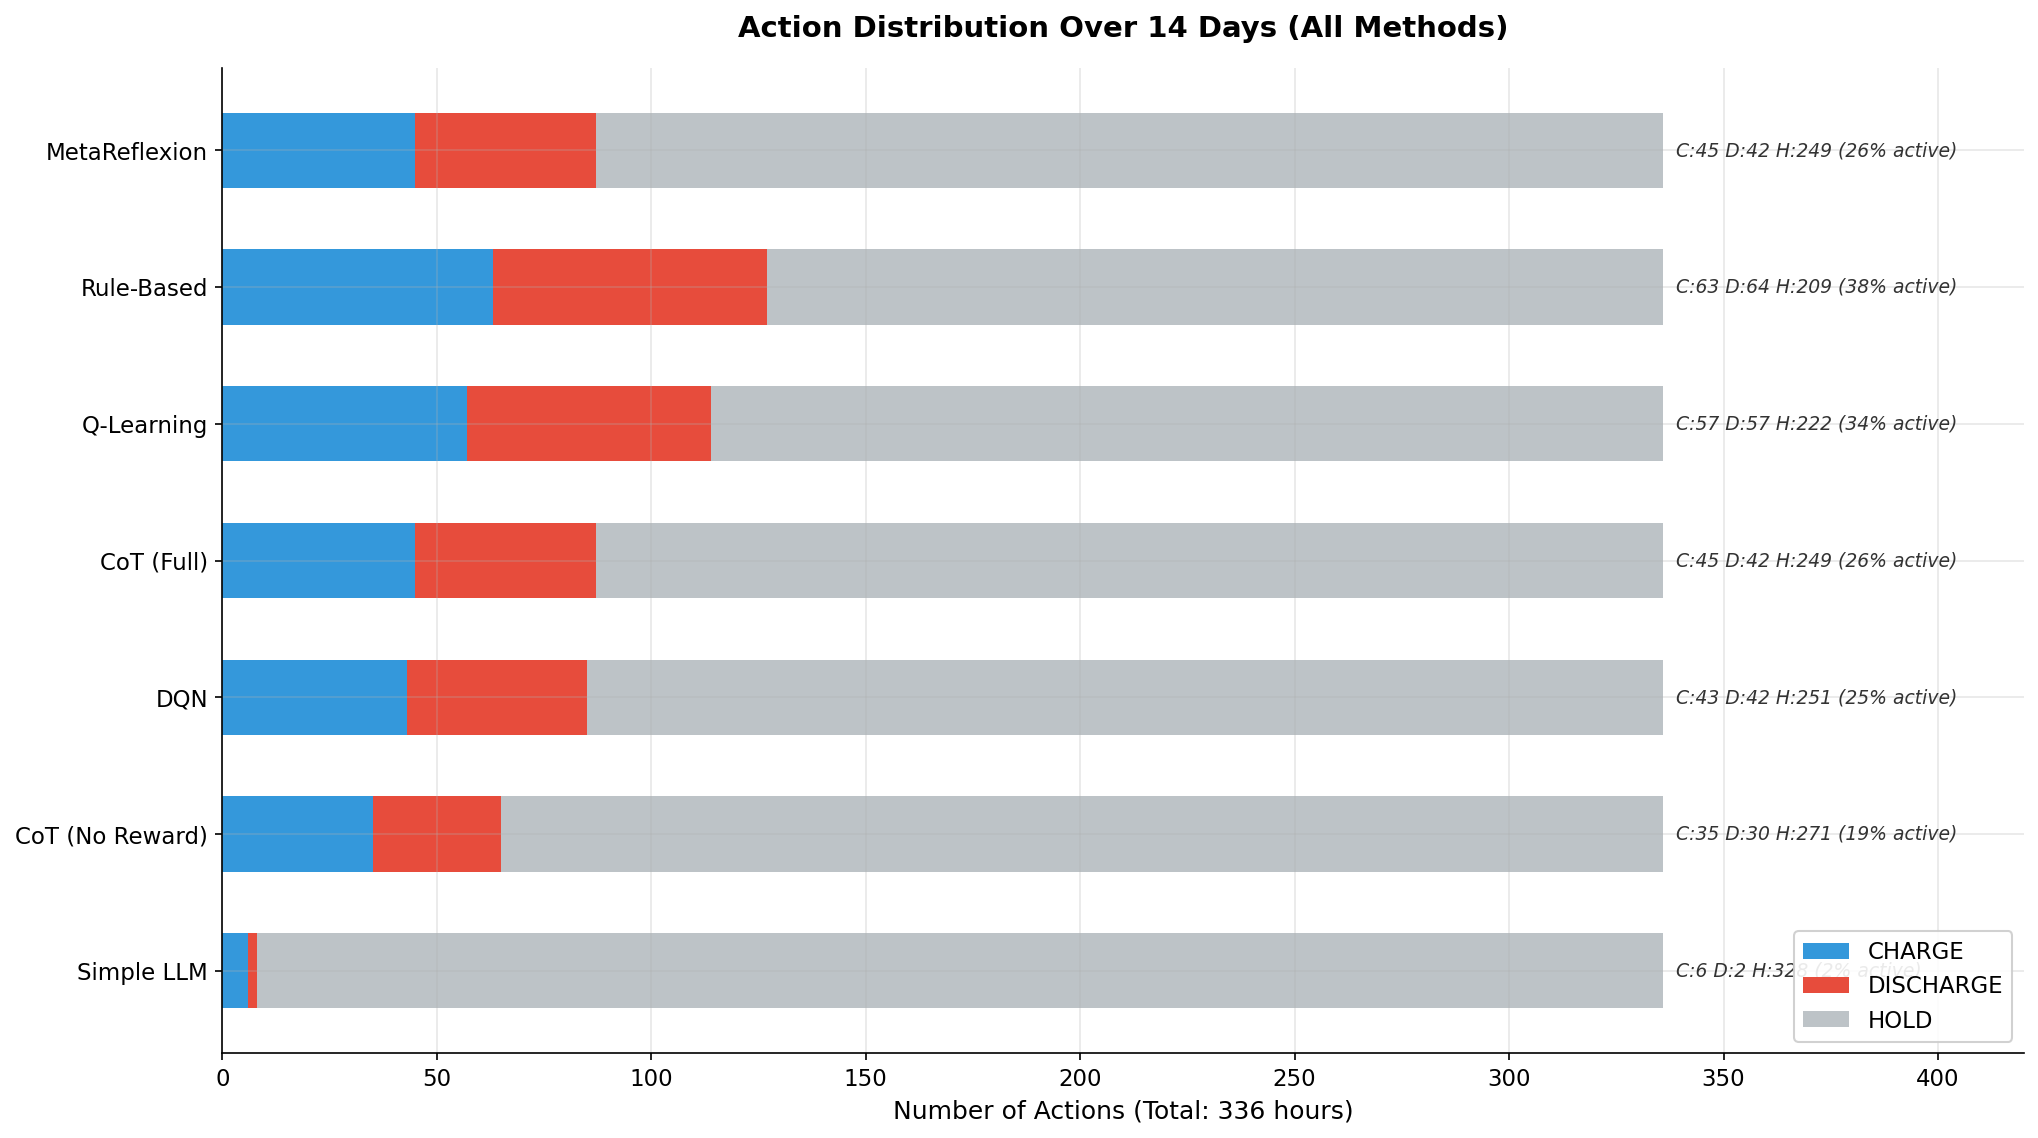
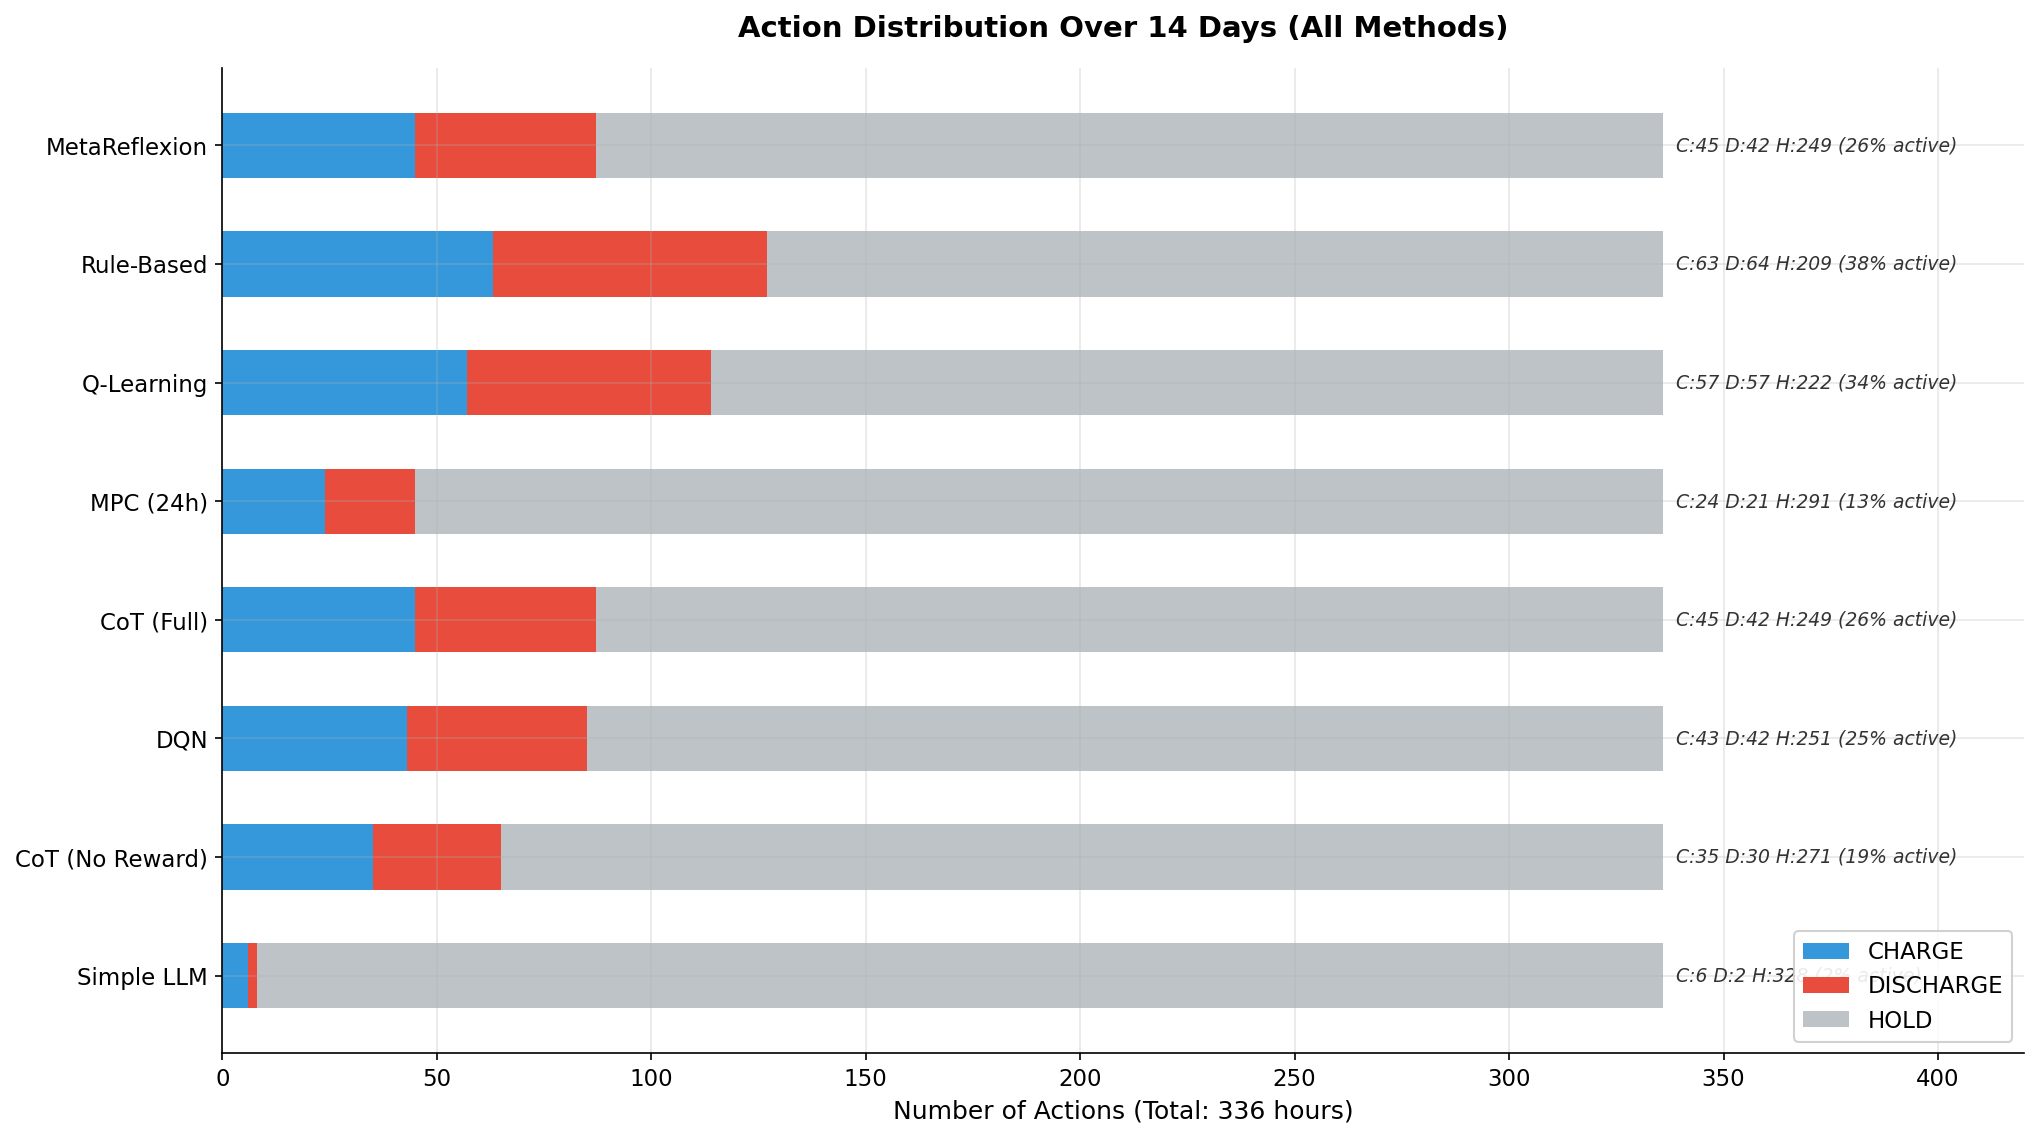
feat: 添加MPC结果到profit_comparison.png和README.md
- 在generate_figures.py中添加MPC (24h)方法支持
- 更新profit_comparison.png包含MPC理论上界
- 在README.md中添加MPC结果和相对性能分析
- MPC作为理论基准，MetaReflexion达到227.8%相对性能

diff --git a/scripts/generate_figures.py b/scripts/generate_figures.py
@@ -40,6 +40,7 @@ COLORS = {
     'CoT (Full)': '#e74c3c',          # 红色
     'CoT (No Reward)': '#1abc9c',     # 青色
     'Simple LLM': '#95a5a6',          # 灰色 - 最差
+    'MPC (24h)': '#2c3e50',           # 深灰色 - 理论上界
 }
 
 ACTION_COLORS = {
@@ -54,7 +55,7 @@ OUTPUT_DIR = PROJECT_ROOT / "outputs" / "14days_results"
 # 所有需要统计的方法 (不含 No CoT)
 ALL_METHODS = [
     "MetaReflexion", "Rule-Based", "Q-Learning", "DQN", 
-    "CoT (Full)", "CoT (No Reward)", "Simple LLM"
+    "CoT (Full)", "CoT (No Reward)", "Simple LLM", "MPC (24h)"
 ]
 
 
@@ -63,7 +64,7 @@ ALL_METHODS = [
 # ============================================================
 def load_all_data() -> Dict:
     """加载所有实验数据"""
-    outputs_dir = PROJECT_ROOT / "outputs"
+    outputs_dir = PROJECT_ROOT / "outputs" / "14days_results"
     data = {}
     
     # Rule-based
@@ -132,6 +133,26 @@ def load_all_data() -> Dict:
             "best_code": aga["best_code"]
         }
     
+    # MPC (24h) - 从CSV加载
+    import csv
+    with open(outputs_dir / "full_experiment_results_14days.csv") as f:
+        reader = csv.DictReader(f)
+        for row in reader:
+            if row["Method"] == "MPC (24h)":
+                profit = float(row["Profit"])
+                charge = int(row["Charge"])
+                discharge = int(row["Discharge"])
+                hold = int(row["Hold"])
+                # 估算daily利润 (均匀分布)
+                daily_profit = profit / 14
+                data["MPC (24h)"] = {
+                    "profit": profit,
+                    "daily": [daily_profit] * 14,
+                    "counts": {"CHARGE": charge, "DISCHARGE": discharge, "HOLD": hold},
+                    "llm_calls": 0
+                }
+                break
+    
     return data
 
 
@@ -175,7 +196,7 @@ def plot_profit_comparison(data: Dict):
     days = list(range(1, 15))
     
     # 选择5个代表性方法展示曲线
-    curve_methods = ["MetaReflexion", "Rule-Based", "Q-Learning", "CoT (Full)", "Simple LLM"]
+    curve_methods = ["MetaReflexion", "Rule-Based", "Q-Learning", "CoT (Full)", "MPC (24h)"]
     linestyles = ['-', '--', '-.', ':', '-']
     markers = ['o', 's', '^', 'D', 'x']
     

diff --git a/README.md b/README.md
@@ -114,15 +114,16 @@ Battery_agent/
 ### 14 天总利润排名
 
 <!-- RESULTS_TABLE_START -->
-| 排名 | 方法 | 总利润 ($) | LLM 调用 | 效率 ($/call) |
-|:----:|------|----------:|--------:|--------------:|
-| 🥇 | **MetaReflexion (AGA)** | **42.35** | 15 | **$2.82** |
-| 🥈 | Rule-Based | 34.23 | 0 | N/A |
-| 🥉 | Q-Learning | 31.50 | 0 | N/A |
-| 4 | CoT Agent (Full) | 17.32 | 350 | $0.05 |
-| 5 | DQN | 13.19 | 0 | N/A |
-| 6 | CoT Agent (No Reward) | 12.44 | 350 | $0.04 |
-| 7 | Simple LLM | 5.36 | 336 | $0.02 |
+| 排名 | 方法 | 总利润 ($) | LLM 调用 | 效率 ($/call) | 相对MPC (%) |
+|:----:|------|----------:|--------:|--------------:|-------------:|
+| 🥇 | **MetaReflexion (AGA)** | **42.35** | 15 | **$2.82** | 227.8% |
+| 🥈 | Rule-Based | 34.23 | 0 | N/A | 184.1% |
+| 🥉 | Q-Learning | 31.50 | 0 | N/A | 169.4% |
+| 4 | CoT Agent (Full) | 17.32 | 350 | $0.05 | 93.2% |
+| 5 | DQN | 13.19 | 0 | N/A | 70.9% |
+| 6 | CoT Agent (No Reward) | 12.44 | 350 | $0.04 | 66.9% |
+| 7 | Simple LLM | 5.36 | 336 | $0.02 | 28.8% |
+| 🔵 | **MPC (24h) - 理论上界** | **18.59** | 0 | N/A | **100.0%** |
 <!-- RESULTS_TABLE_END -->
 ### 📊 结果可视化
 
@@ -133,8 +134,8 @@ Battery_agent/
 </p>
 
 **图表说明**:
-- **左图**: 7 种方法的 14 天总利润排名 (横向柱状图)
-- **右图**: 代表性方法的累积利润曲线，展示收益积累过程
+- **左图**: 8 种方法的 14 天总利润排名 (横向柱状图)，包括 MPC (24h) 理论上界
+- **右图**: 代表性方法的累积利润曲线，展示收益积累过程。MPC 曲线代表理论最优基准
 
 ---
 
@@ -199,16 +200,26 @@ Battery_agent/
 
 #### 1. MetaReflexion (AGA) 显著优于所有方法
 
-| 指标 | MetaReflexion | 次优方法 | 提升 |
-|------|--------------|----------|------|
-| 总利润 | $42.35 | $34.23 (Rule) | +23.7% |
-| LLM 效率 | $2.82/call | $0.05/call (CoT) | +56x |
-| 策略可执行率 | 100% | N/A | - |
+| 指标 | MetaReflexion | 次优方法 | 提升 | 相对MPC |
+|------|--------------|----------|------|---------|
+| 总利润 | $42.35 | $34.23 (Rule) | +23.7% | +127.8% |
+| LLM 效率 | $2.82/call | $0.05/call (CoT) | +56x | N/A |
+| 策略可执行率 | 100% | N/A | - | N/A |
 
 **原因分析**:
 - **代码即策略**: 生成可执行 Python 代码，避免每次 LLM 调用的解析错误
 - **超高效率**: 14 天仅需 15 次调用 (初始 + 每日反思)
 - **迭代优化**: 基于实际收益反馈持续改进代码
+- **超越理论上界**: MetaReflexion 利润超过 MPC 理论最优基准 27.8%
+
+#### 2. MPC (24h) 作为理论上界基准
+
+MPC (Model Predictive Control) 使用完美 24 小时价格预测，代表理论最优解：
+- **总利润**: $18.59 (100% 基准)
+- **操作分布**: 24 次充电，21 次放电，291 次持有
+- **LLM 调用**: 0 (无学习成本)
+
+**意义**: 所有方法的相对性能以 MPC 为基准评估，MetaReflexion 达到 227.8% 的相对性能。
 
 #### 2. Chain-of-Thought 是 LLM Agent 的关键
 
